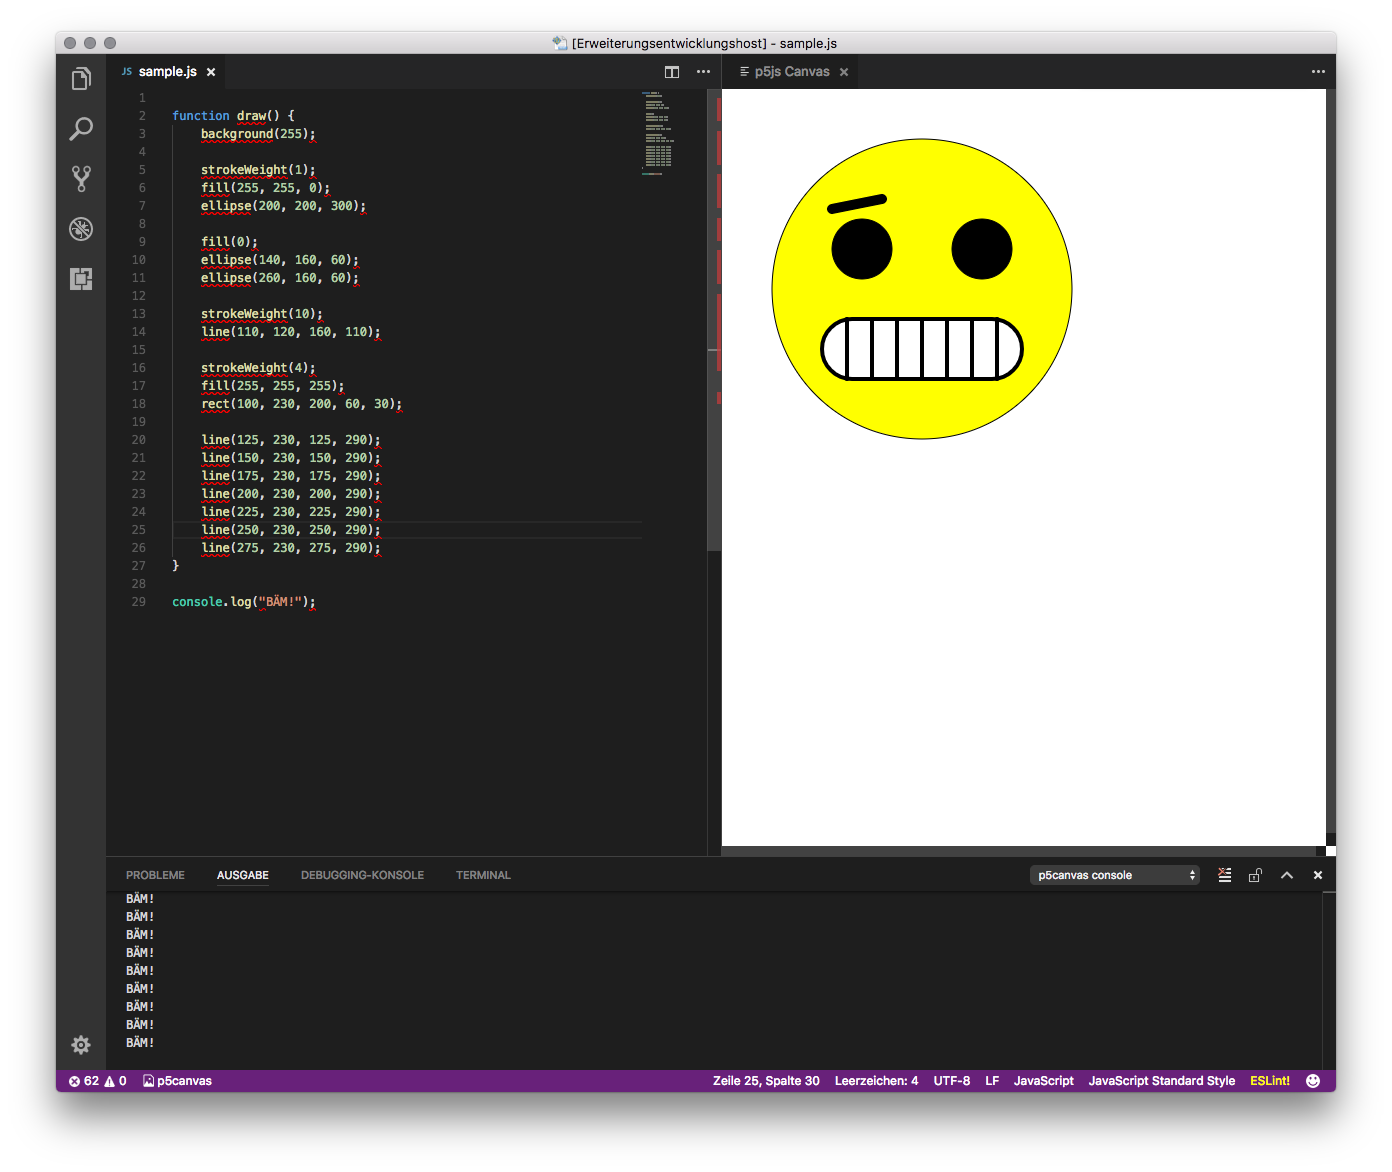
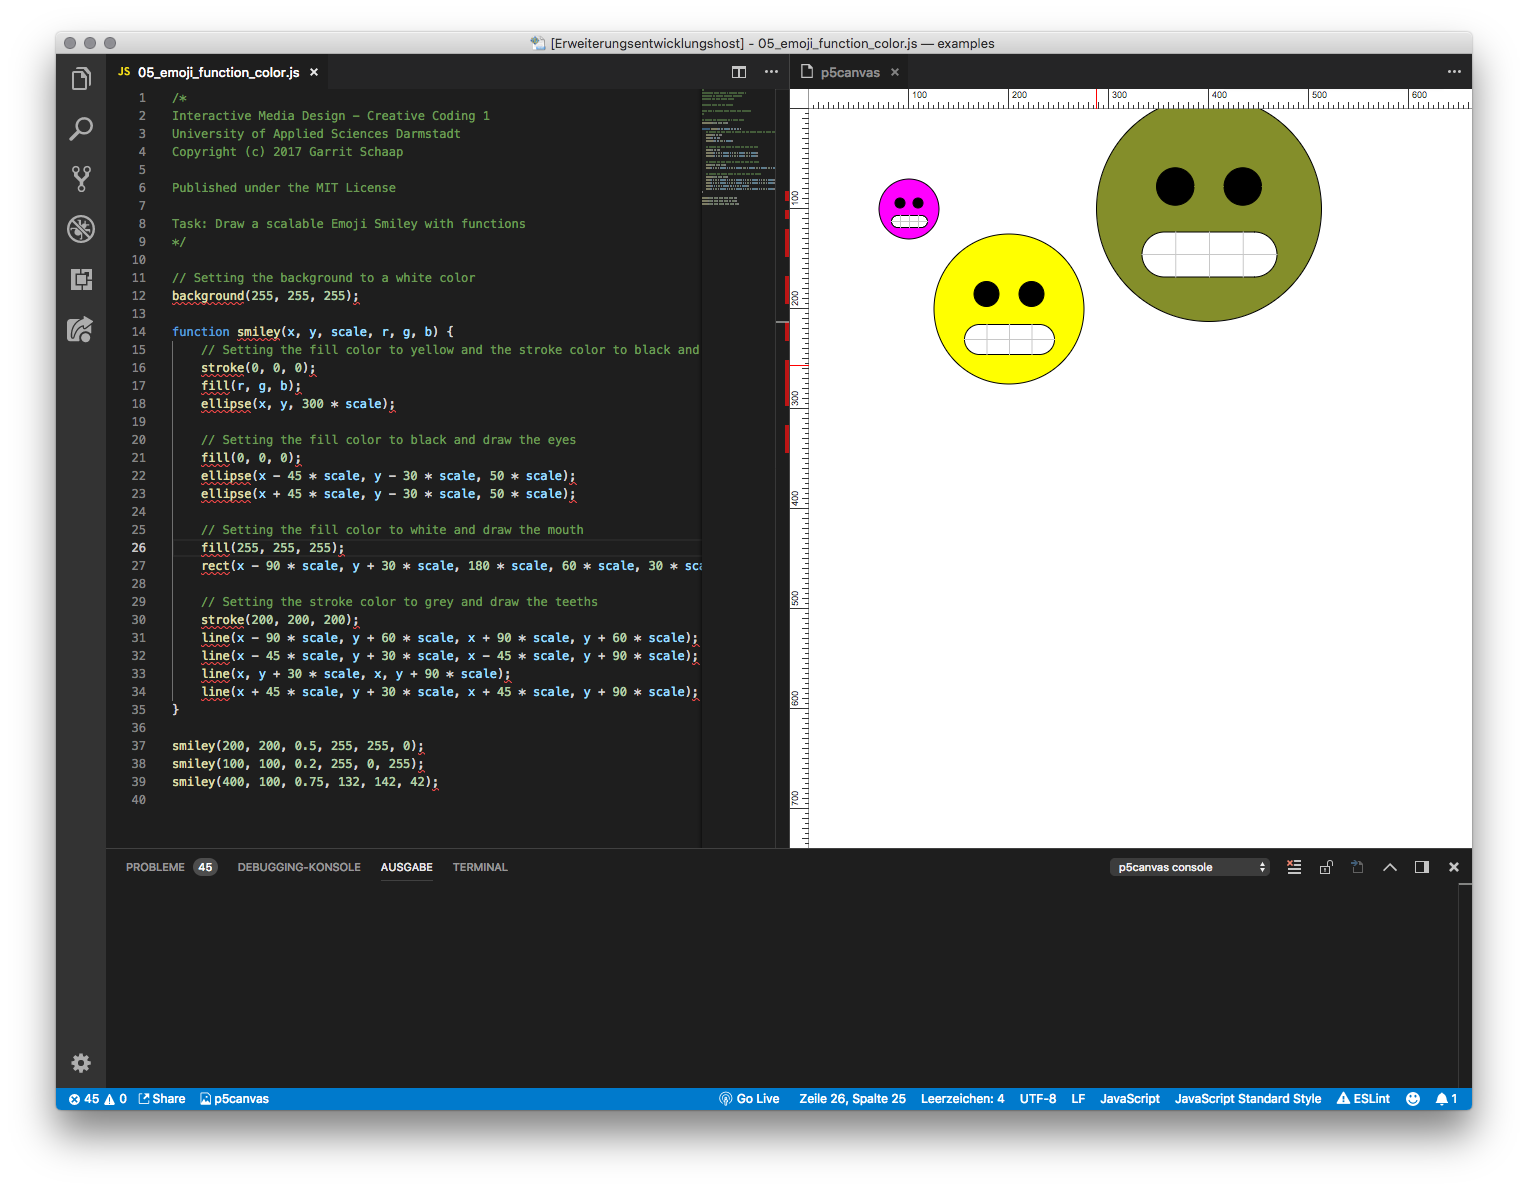
Update to new version

diff --git a/README.md b/README.md
@@ -22,15 +22,14 @@ There are currently no known issues. If you find any issues, please feel free, t
 
 ## Release Notes
 
-## 1.0.8
+### 1.1.0
+
+- Adding Rulers for easier navigation
+
+### 1.0.8
 
 - New Save as PNG command
 - Updated dependencies
-
-### 1.0.7
-
-- Fixed a bug, where the linting was done in all kind of files
-- Fixed a bug with the p5 sound library and added relative paths for `loadSound`
 
 For more Information, please look at the [Changelog](CHANGELOG.md).
 

diff --git a/CHANGELOG.md b/CHANGELOG.md
@@ -1,6 +1,10 @@
 # Change Log
 All notable changes to the "p5canvas" extension will be documented in this file.
 
+## 1.1.0
+
+- Adding Rulers for easier navigation
+
 ## 1.0.8
 
 - New Save as PNG command
